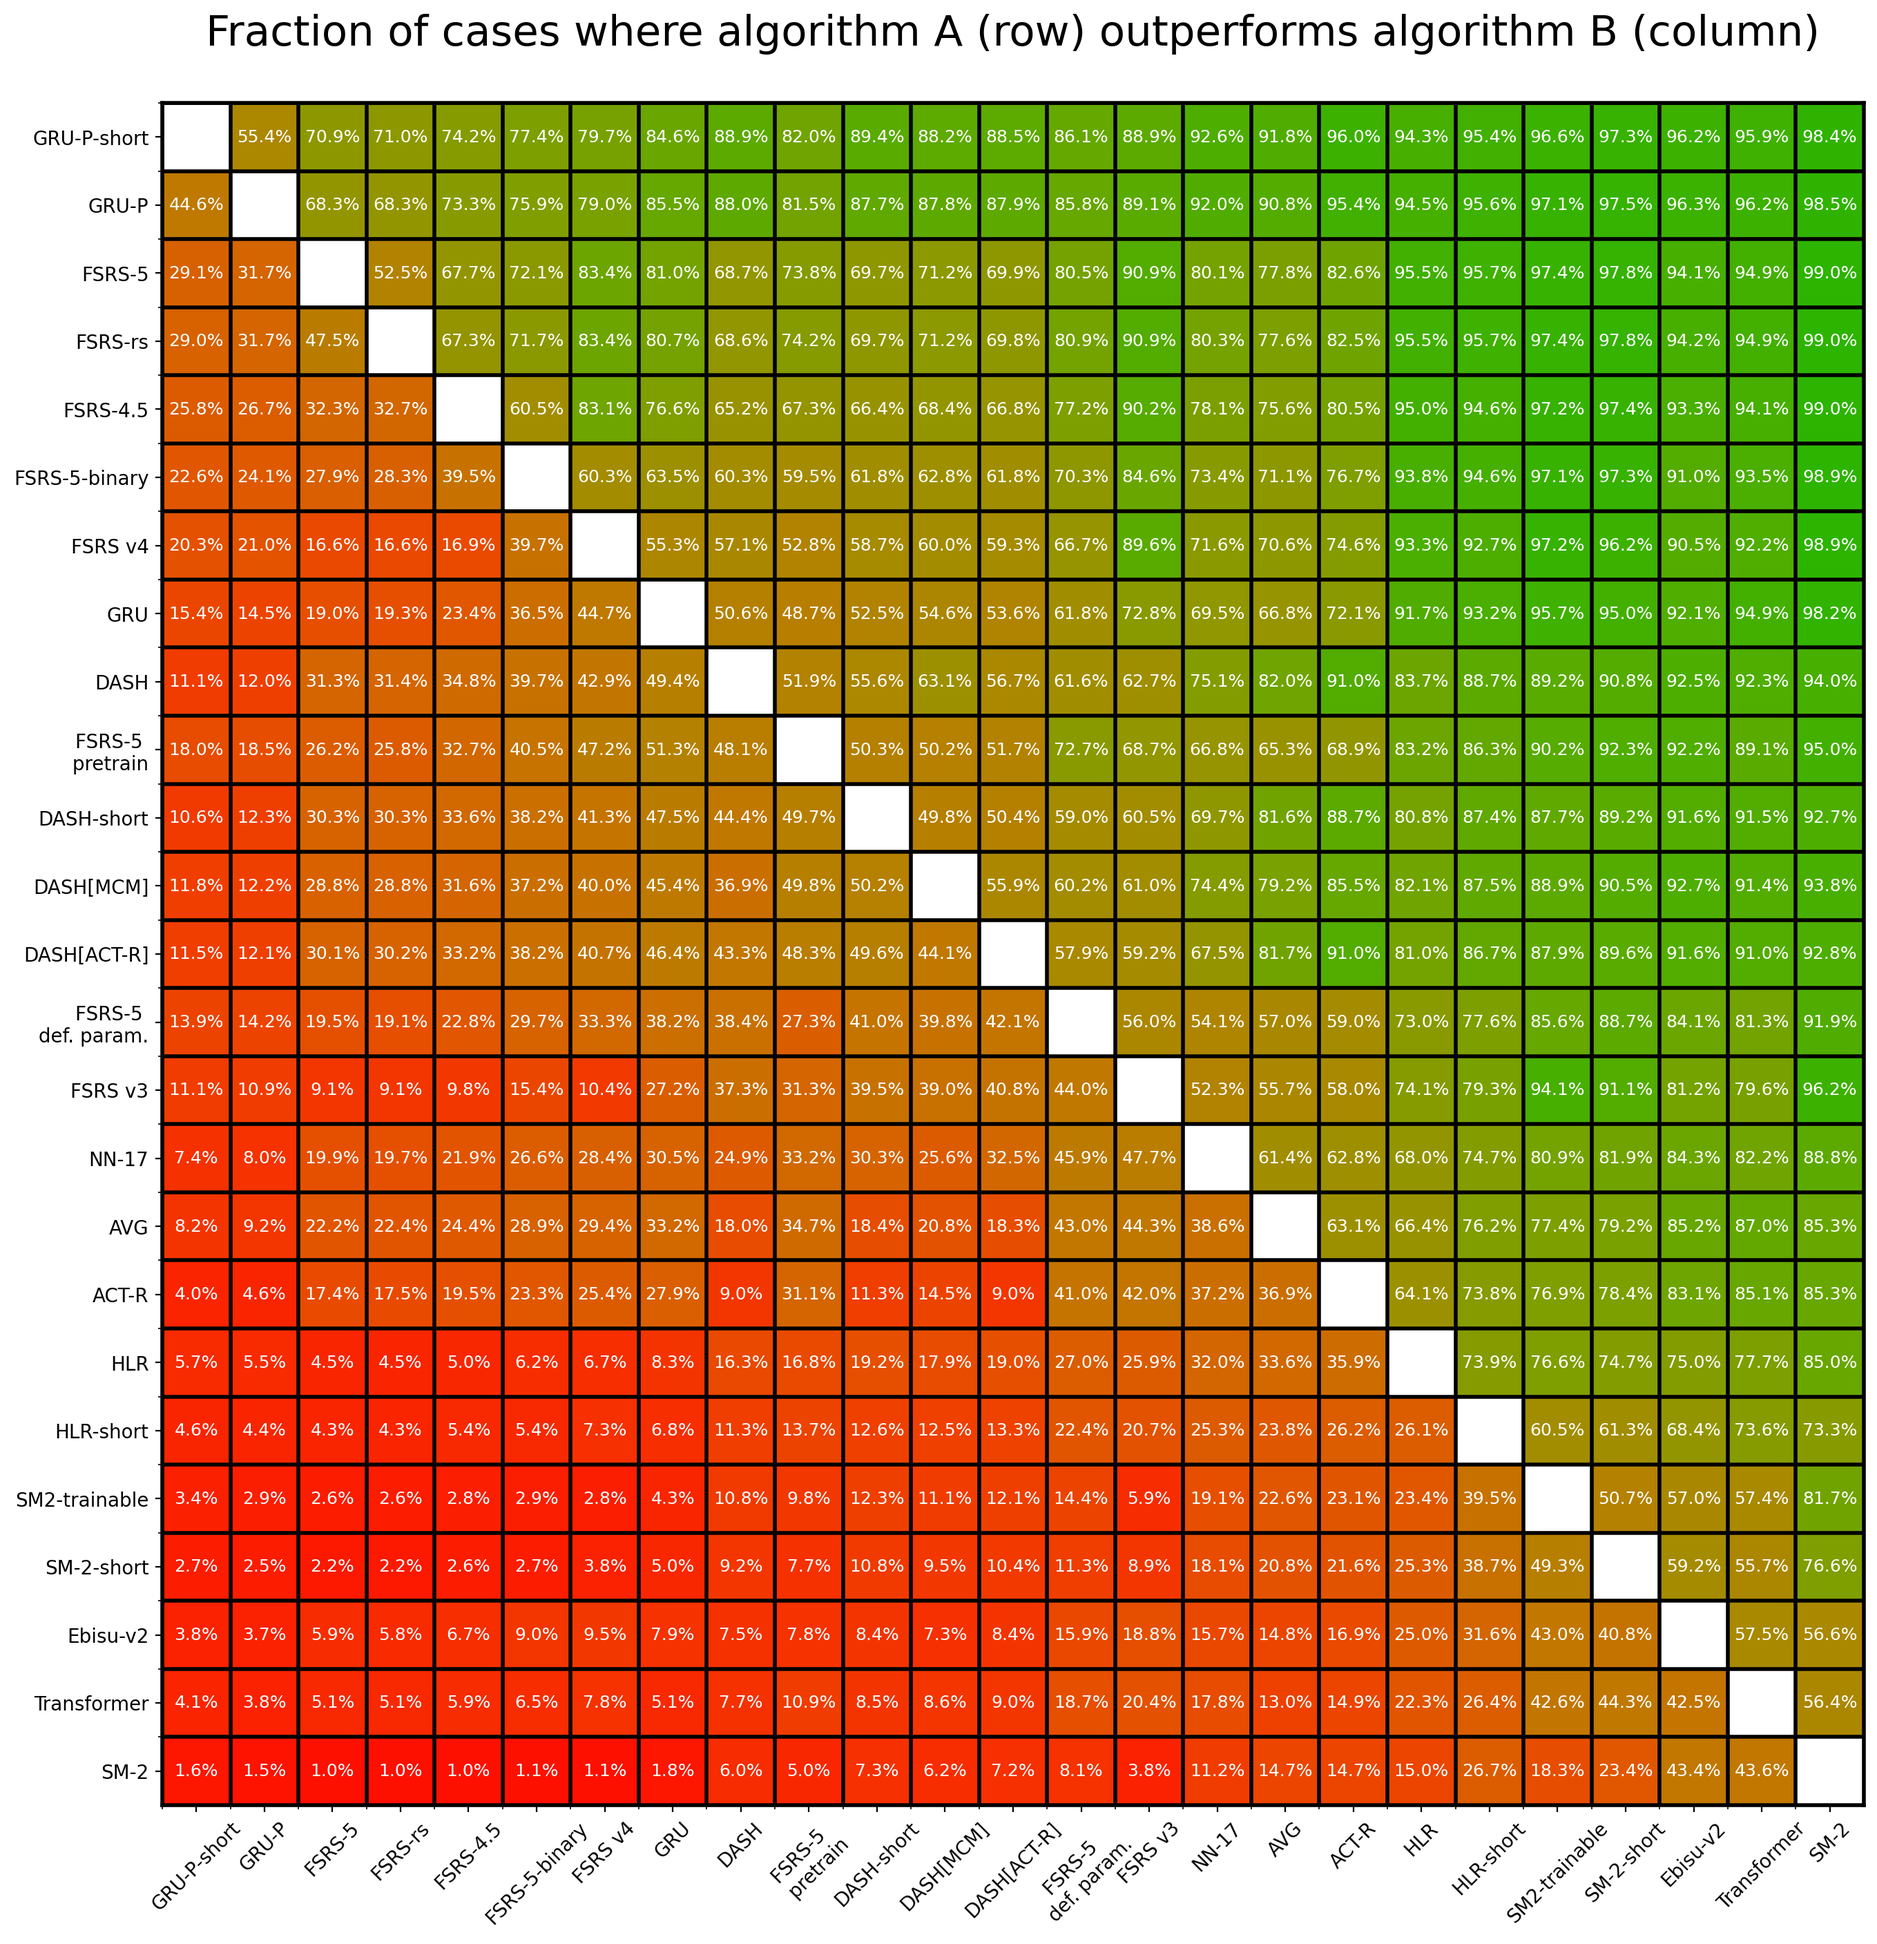
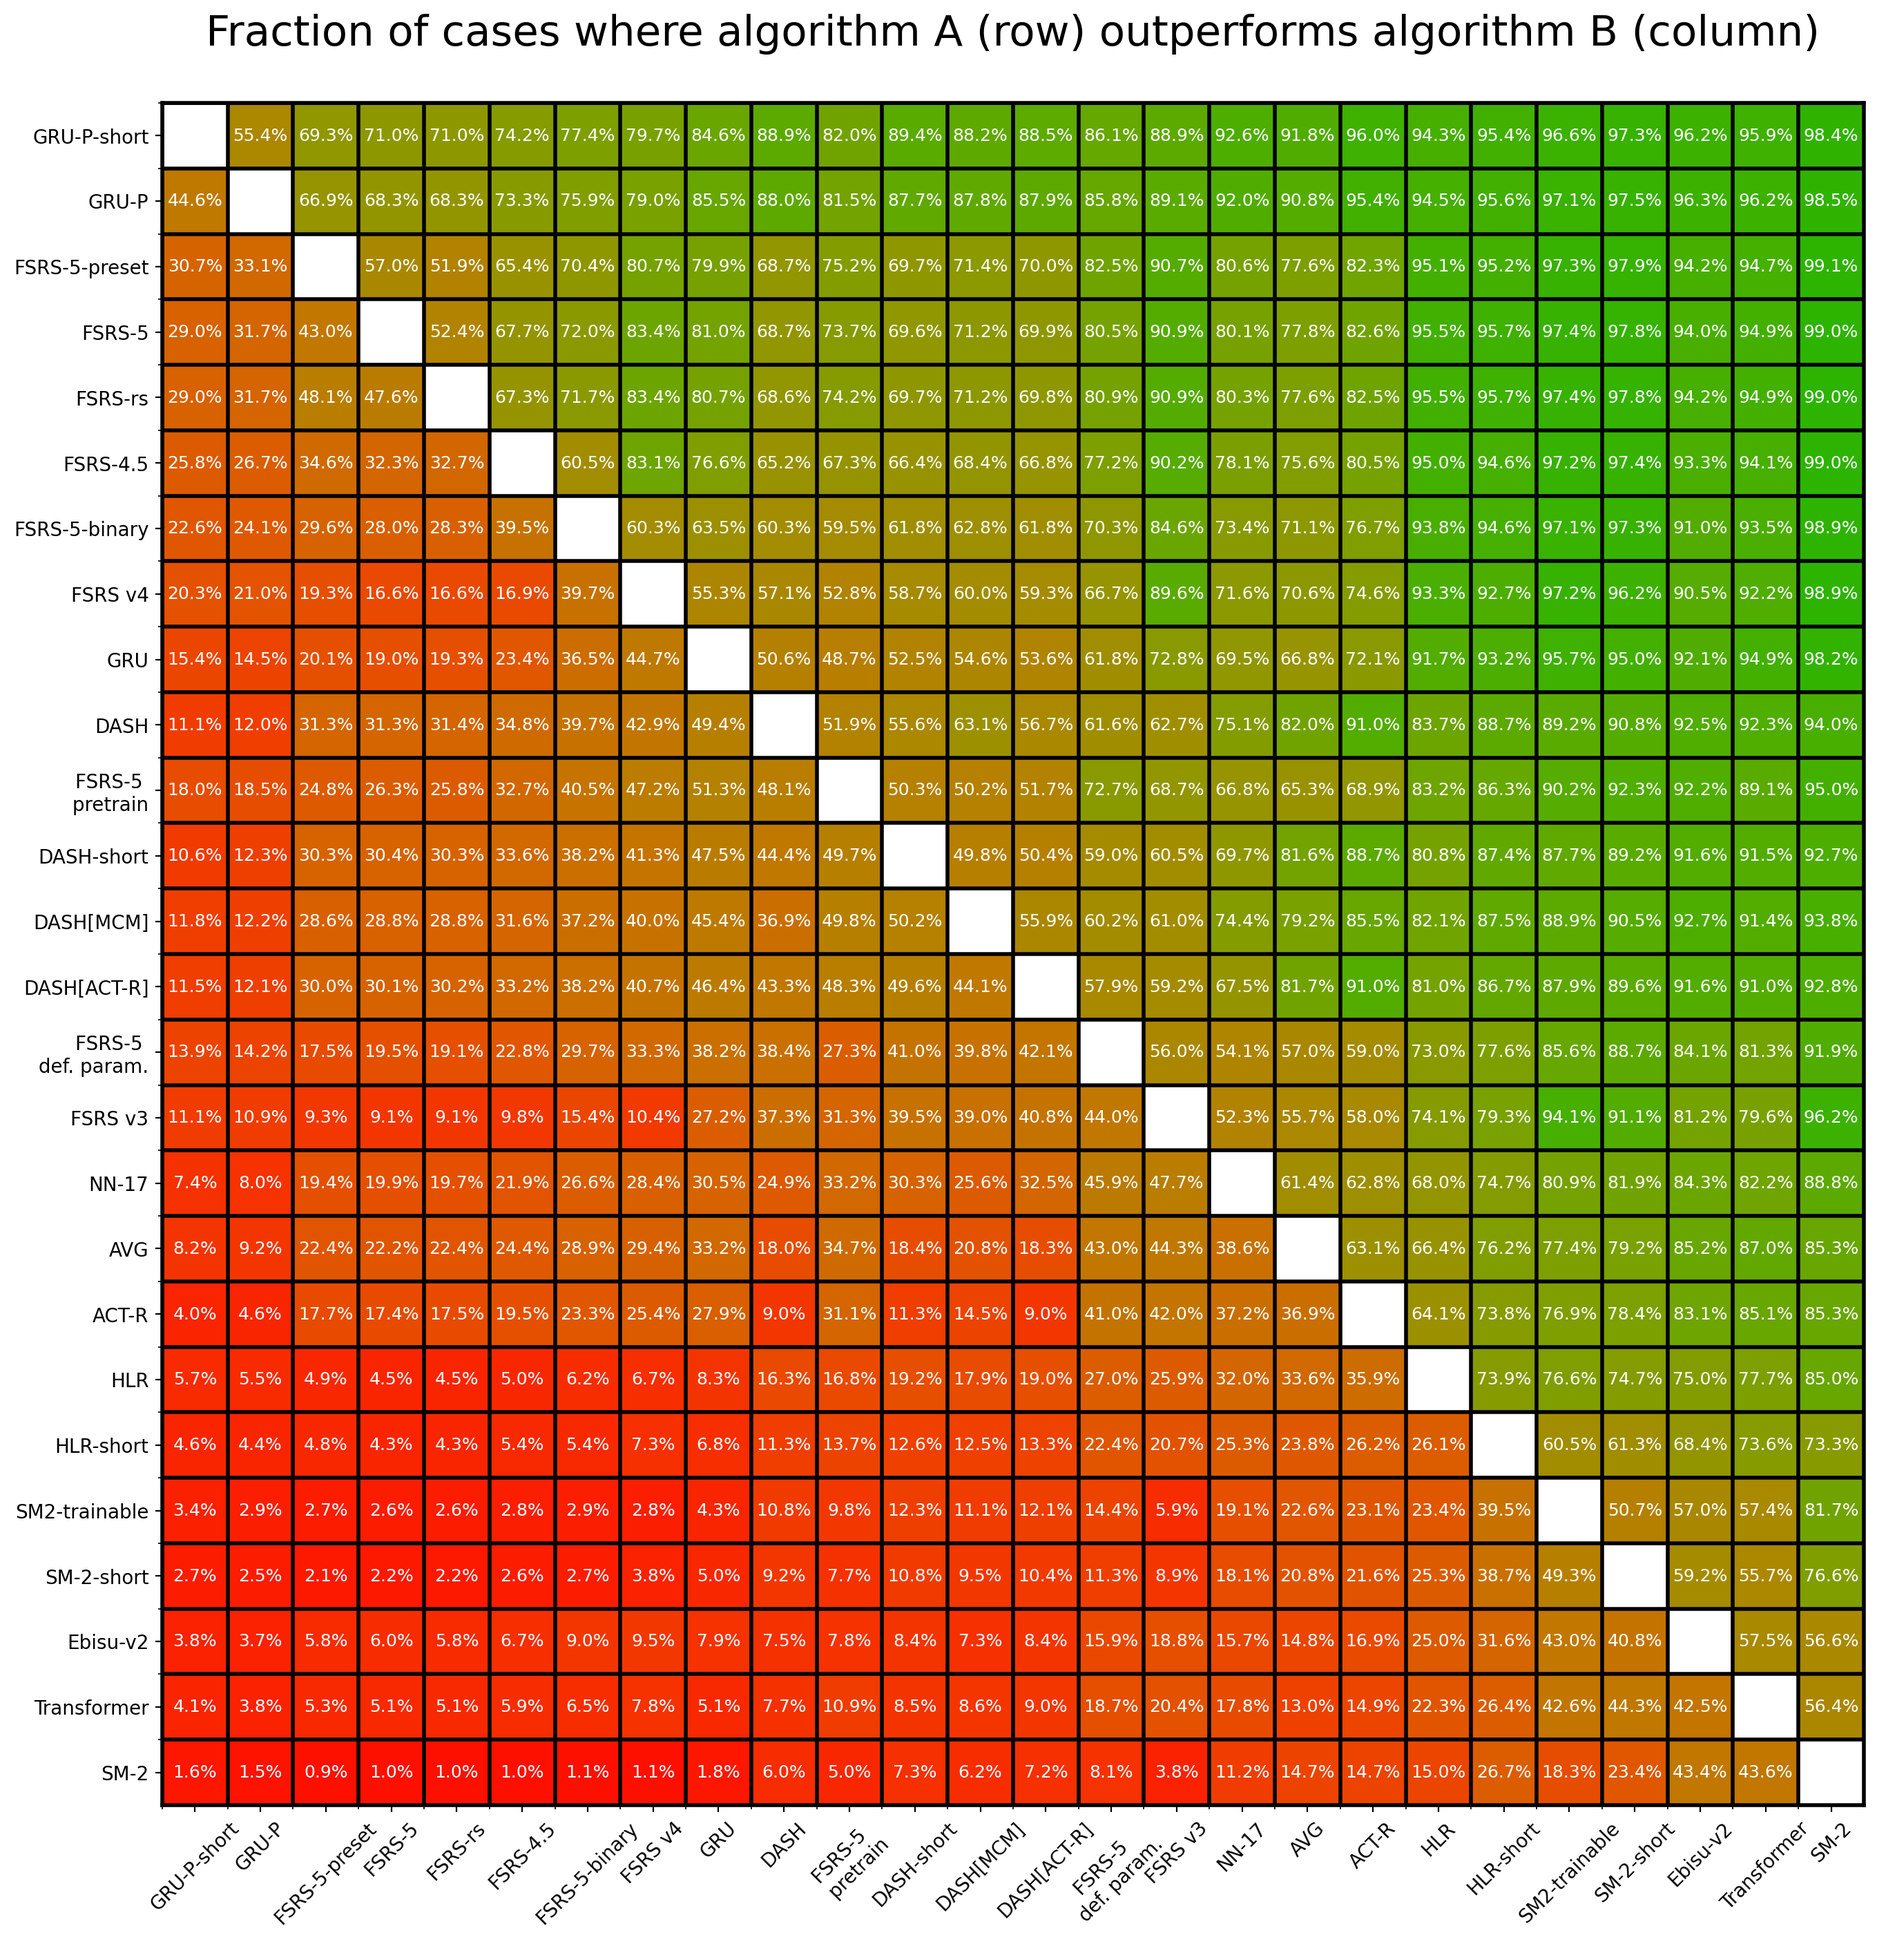
add FSRS-5-preset to plots

diff --git a/significance_table.py b/significance_table.py
@@ -68,6 +68,7 @@ if __name__ == "__main__":
     models = [
         "GRU-P-short",
         "GRU-P",
+        "FSRS-5-preset",
         "FSRS-5",
         "FSRS-rs",
         "FSRS-4.5",

diff --git a/superiority.py b/superiority.py
@@ -16,6 +16,7 @@ if __name__ == "__main__":
     models = [
         "GRU-P-short",
         "GRU-P",
+        "FSRS-5-preset",
         "FSRS-5",
         "FSRS-rs",
         "FSRS-4.5",
